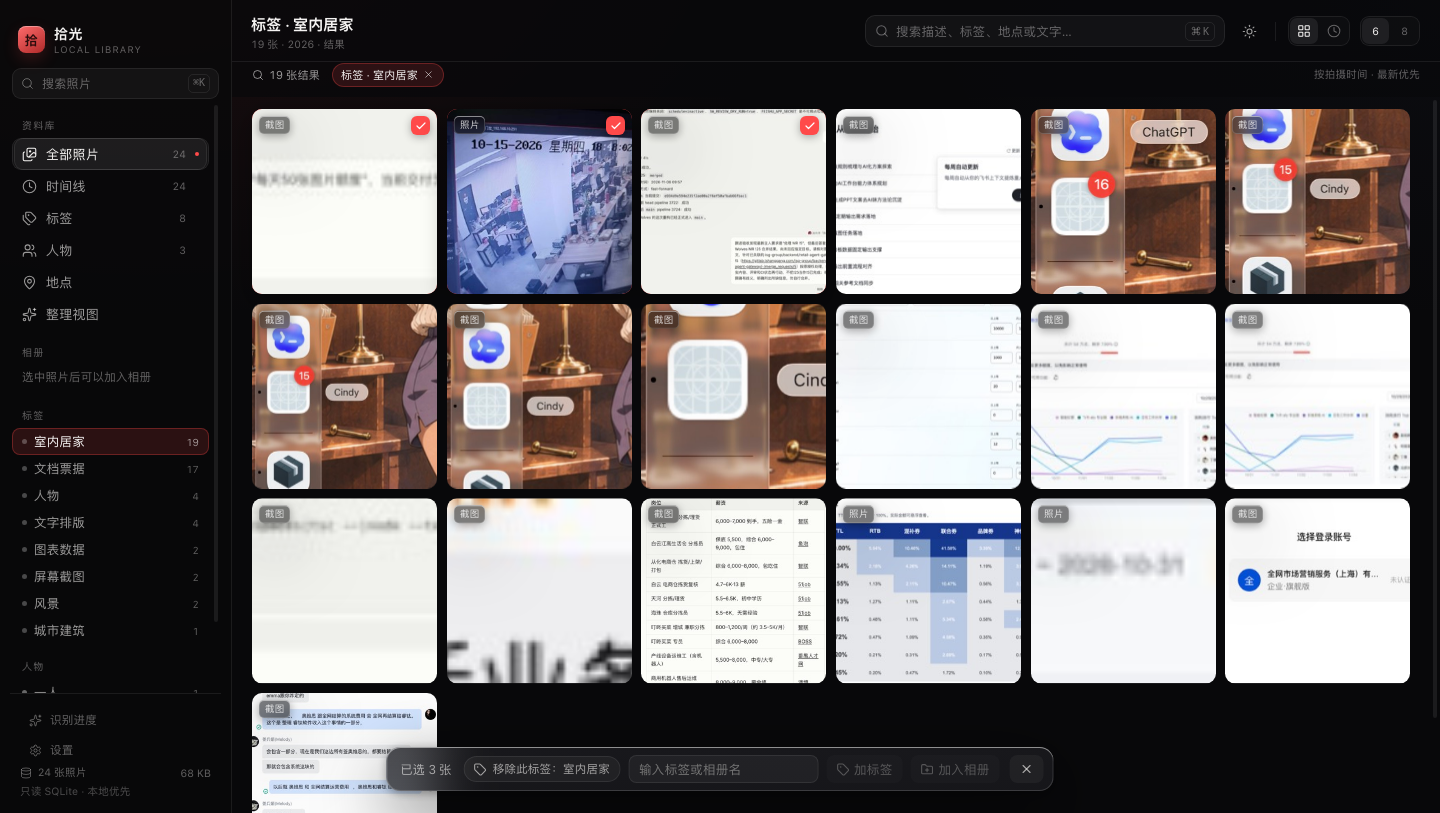
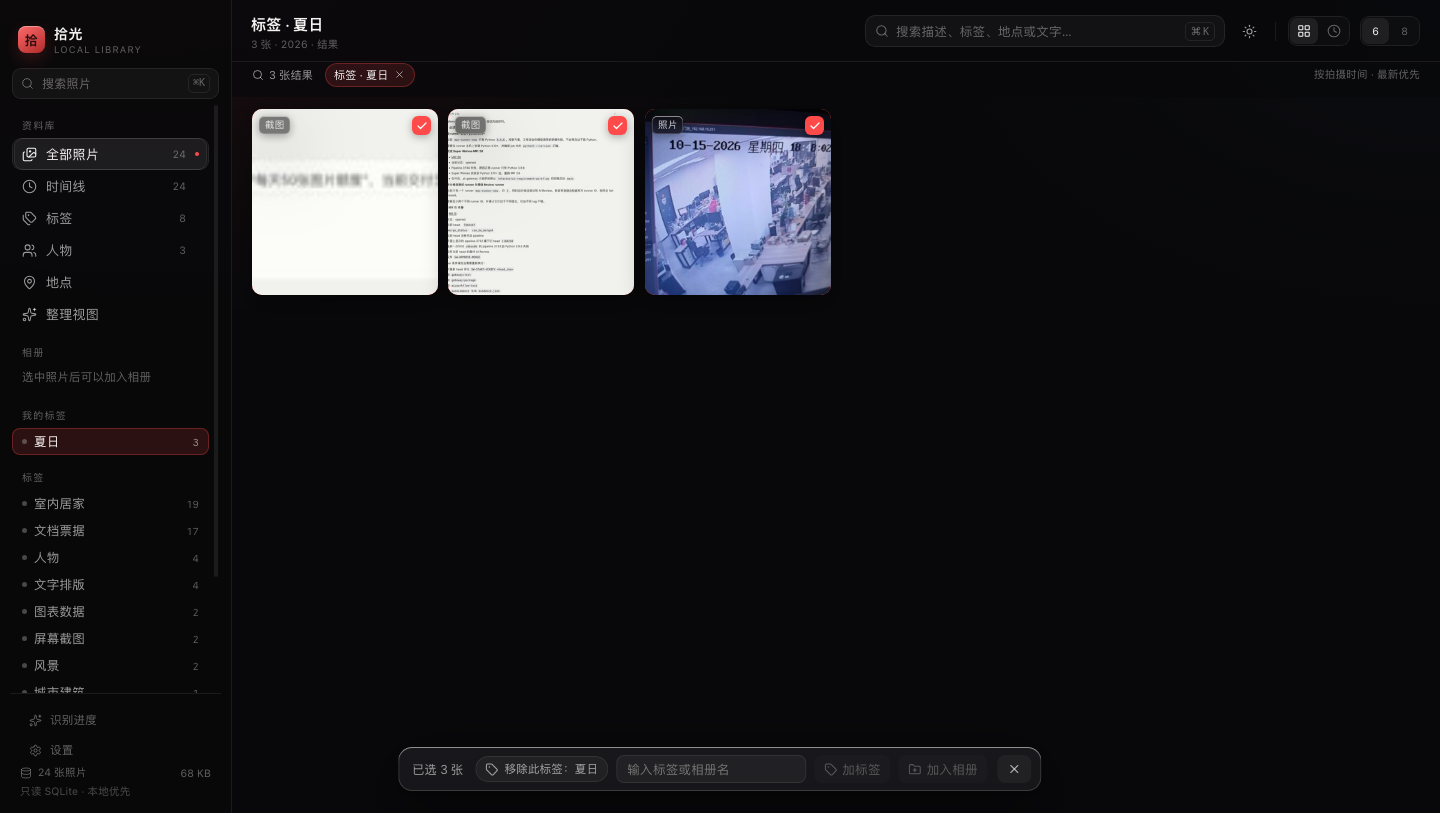
fix(desktop): 移除入口只对用户标签出现，facets 暴露 user_tags

diff --git a/desktop/src/App.tsx b/desktop/src/App.tsx
@@ -147,6 +147,7 @@ const route = useMemo(readRoute, []);
   const pendingUndo = useRef<{ revert: () => Promise<void> } | null>(null);
   // fixture 模式下没有后端相册，用本地成员表撑起相册视图与「移出」。
   const [fixtureAlbums, setFixtureAlbums] = useState<Record<string, string[]>>({});
+  const [fixtureUserTags, setFixtureUserTags] = useState<Record<string, string[]>>({});
   const pendingSearch = useRef<{ start: number; value: string } | null>(null);
   const firstGridMarked = useRef(false);
 
@@ -179,6 +180,12 @@ const route = useMemo(readRoute, []);
     });
   }, []);
 
+  const userTagNames = useMemo(() => {
+    const names = new Set((facets?.user_tags ?? []).map(([name]) => name));
+    Object.keys(fixtureUserTags).forEach((name) => names.add(name));
+    return names;
+  }, [facets, fixtureUserTags]);
+
   const displayFacets = useMemo(() => {
     if (!facets || !isFixture) return facets;
     const subtract = (list: [string, number][] | undefined, prefix: string): [string, number][] =>
@@ -193,8 +200,20 @@ const route = useMemo(readRoute, []);
     ]);
     const merged = new Map<string, number>(baseAlbums);
     localAlbums.forEach(([name, count]) => merged.set(name, count));
-    return { ...facets, tags: subtract(facets.tags, "tag"), albums: Array.from(merged.entries()) };
-  }, [facets, localRemoved, fixtureAlbums]);
+    const baseUserTags = subtract(facets.user_tags, "tag");
+    const localUserTags: [string, number][] = Object.entries(fixtureUserTags).map(([name, ids]) => [
+      name,
+      ids.filter((id) => !(localRemoved[`tag:${name}`] ?? []).includes(id)).length,
+    ]);
+    const userMerged = new Map<string, number>(baseUserTags);
+    localUserTags.forEach(([name, count]) => userMerged.set(name, count));
+    return {
+      ...facets,
+      tags: subtract(facets.tags, "tag"),
+      user_tags: Array.from(userMerged.entries()),
+      albums: Array.from(merged.entries()),
+    };
+  }, [facets, localRemoved, fixtureAlbums, fixtureUserTags]);
 
   const runRemove = useCallback(
     async (kind: "tag" | "album", value: string) => {
@@ -257,7 +276,14 @@ const route = useMemo(readRoute, []);
     setBulkBusy(true);
     try {
       if (kind === "tag") {
-        if (!isFixture) await bulkTag(selection, value);
+        if (isFixture) {
+          setFixtureUserTags((previous) => ({
+            ...previous,
+            [value]: Array.from(new Set([...(previous[value] ?? []), ...selection])),
+          }));
+        } else {
+          await bulkTag(selection, value);
+        }
         showToast(`已给 ${selection.length} 张加标签「${value}」`);
       } else if (isFixture) {
         setFixtureAlbums((previous) => ({
@@ -334,7 +360,7 @@ const route = useMemo(readRoute, []);
     const scope = tags.length === 1 ? `tag:${tags[0]}` : album ? `album:${album}` : null;
     queryAssets({
       query: query || undefined,
-      tag: tags[0],
+      tag: isFixture && fixtureUserTags[tags[0]] ? undefined : tags[0],
       album: album ?? undefined,
       scene: scene || undefined,
       limit: filterActive ? 1000 : PAGE_SIZE,
@@ -344,6 +370,10 @@ const route = useMemo(readRoute, []);
         if (cancelled) return;
         const hidden = scope && isFixture ? new Set(localRemoved[scope] ?? []) : null;
         let visible = hidden ? list.filter((item) => !hidden.has(item.id)) : list;
+        if (isFixture && tags.length === 1 && fixtureUserTags[tags[0]]) {
+          const members = new Set(fixtureUserTags[tags[0]]);
+          visible = visible.filter((item) => members.has(item.id));
+        }
         if (isFixture && album) {
           const members = new Set(fixtureAlbums[album] ?? []);
           visible = visible.filter((item) => members.has(item.id));
@@ -360,7 +390,7 @@ const route = useMemo(readRoute, []);
     return () => {
       cancelled = true;
     };
-  }, [view, query, tagKey, tags.length, scene, person, place, album, dataVersion, localRemoved, fixtureAlbums]);
+  }, [view, query, tagKey, tags.length, scene, person, place, album, dataVersion, localRemoved, fixtureAlbums, fixtureUserTags]);
 
   const needsAll =
     view === "timeline" || view === "tags" || view === "people" || view === "places" || view === "organize";
@@ -412,7 +442,9 @@ const route = useMemo(readRoute, []);
   const filteredAssets = useMemo(
     () =>
       assets.filter(
-        (asset) => matchesFilters(asset, { tags, scene, person, place }) && matchesSearch(asset, query),
+        // 标签已在 queryAssets 层过滤（AI 标签查 captions.tags，用户标签查 asset_tags），这里不再二次过滤，
+        // 否则用户标签的成员会被 asset.tags（只含 AI 标签）筛掉。
+        (asset) => matchesFilters(asset, { tags: [], scene, person, place }) && matchesSearch(asset, query),
       ),
     [assets, tags, scene, person, place, query],
   );
@@ -1032,7 +1064,7 @@ const route = useMemo(readRoute, []);
         <SelectionBar
           count={selection.length}
           busy={bulkBusy}
-          tagContext={tags.length === 1 ? tags[0] : null}
+          tagContext={tags.length === 1 && userTagNames.has(tags[0]) ? tags[0] : null}
           albumContext={album}
           onTag={(tag) => void runBulk("tag", tag)}
           onAlbum={(name) => void runBulk("album", name)}

diff --git a/desktop/src/components/Sidebar.tsx b/desktop/src/components/Sidebar.tsx
@@ -88,6 +88,7 @@ export function Sidebar({
 
   const tags = facets?.tags ?? [];
   const albums = facets?.albums ?? [];
+  const userTags = facets?.user_tags ?? [];
   const people = (facets?.people ?? []).filter(([name]) => name !== "无" && name !== "未知").slice(0, 3);
 
   return (
@@ -156,6 +157,24 @@ export function Sidebar({
               <span className="count">{count}</span>
             </button>
           ))
+        )}
+
+        {userTags.length > 0 && (
+          <>
+            <div className="nav-group-label">我的标签</div>
+            {userTags.map(([name, count]) => (
+              <button
+                key={`user-${name}`}
+                type="button"
+                className={clsx("tag-pill", activeTags.includes(name) && "active")}
+                onClick={() => onTag(name)}
+              >
+                <span className="tag-dot" />
+                <span className="tag-name">{name}</span>
+                <span className="count">{count}</span>
+              </button>
+            ))}
+          </>
         )}
 
         <div className="nav-group-label">标签</div>

diff --git a/desktop/src/api.ts b/desktop/src/api.ts
@@ -31,6 +31,7 @@ export type Stats = {
 
 export type Facets = {
   tags: [string, number][];
+  user_tags?: [string, number][];
   albums: [string, number][];
   scenes: [string, number][];
   people: [string, number][];

diff --git a/desktop/src-tauri/src/lib.rs b/desktop/src-tauri/src/lib.rs
@@ -150,6 +150,7 @@ struct Stats {
 #[derive(Serialize, Default)]
 struct Facets {
     tags: Vec<(String, i64)>,
+    user_tags: Vec<(String, i64)>,
     albums: Vec<(String, i64)>,
     scenes: Vec<(String, i64)>,
     people: Vec<(String, i64)>,
@@ -306,6 +307,13 @@ fn facets(db: State<'_, Db>) -> Result<Facets, String> {
         v
     };
     facets.tags = sorted(tags);
+    facets.user_tags = conn
+        .prepare("SELECT tag, count(*) FROM asset_tags GROUP BY tag ORDER BY count(*) DESC")
+        .and_then(|mut stmt| {
+            stmt.query_map([], |row| Ok((row.get::<_, String>(0)?, row.get::<_, i64>(1)?)))
+                .map(|rows| rows.flatten().collect())
+        })
+        .unwrap_or_default();
     facets.scenes = sorted(scenes);
     facets.people = sorted(people);
 
